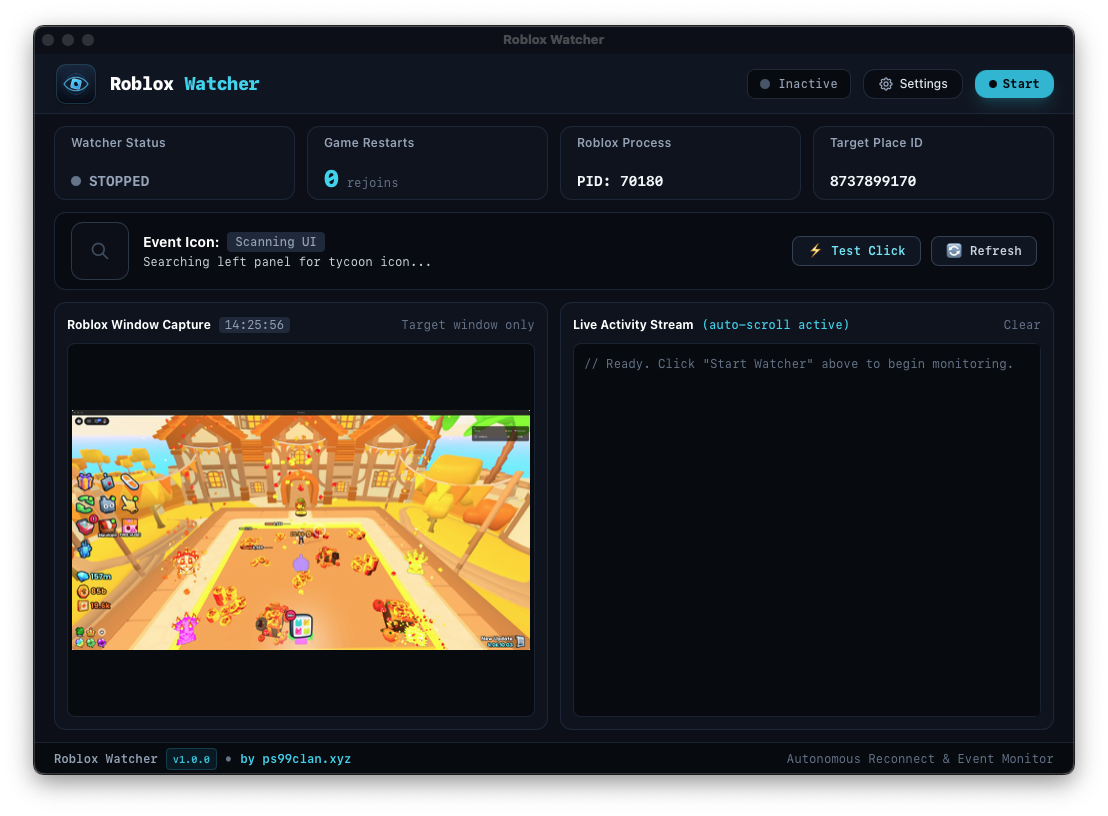
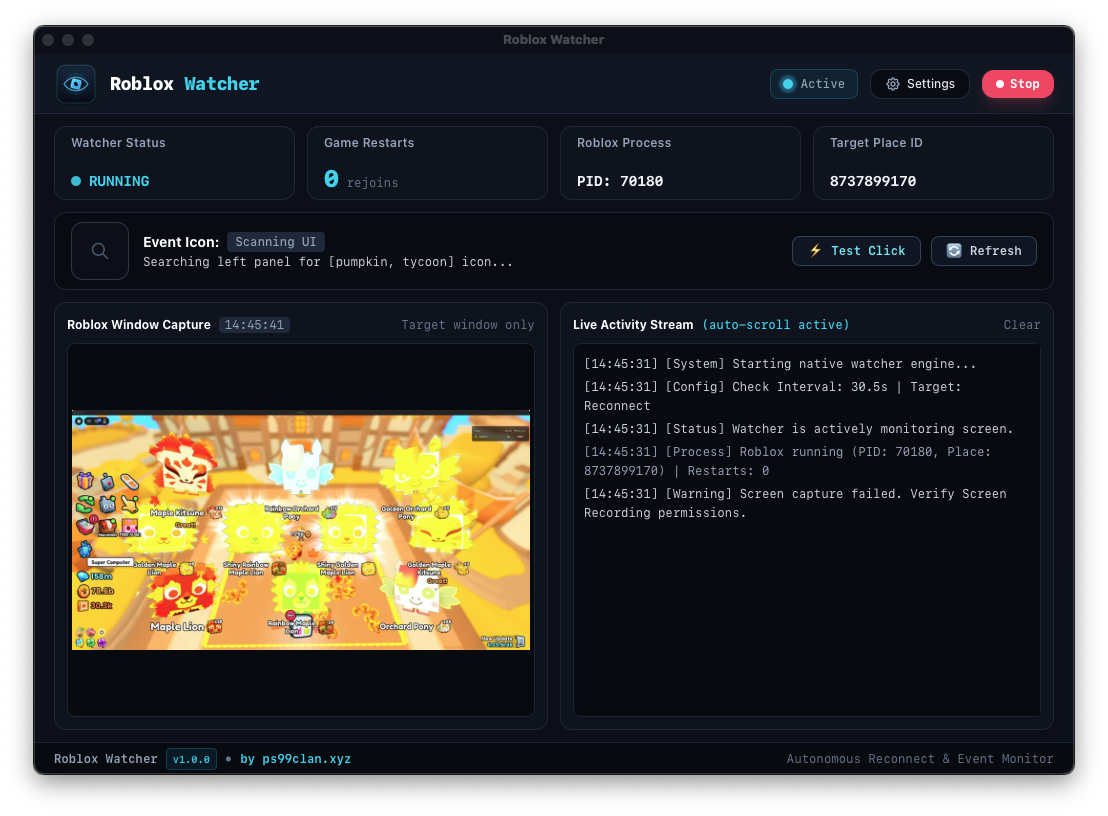
docs: update README screenshot with active running watcher state

diff --git a/Sources/NativeApp.swift b/Sources/NativeApp.swift
@@ -734,6 +734,10 @@ class AppDelegate: NSObject, NSApplicationDelegate, NSWindowDelegate {
         updateTimer = Timer.scheduledTimer(withTimeInterval: 1.5, repeats: true) { [weak self] _ in
             self?.syncUIState()
         }
+        
+        if ProcessInfo.processInfo.arguments.contains("--start") {
+            WatcherManager.shared.start()
+        }
     }
     
     func setupStatusBar() {
